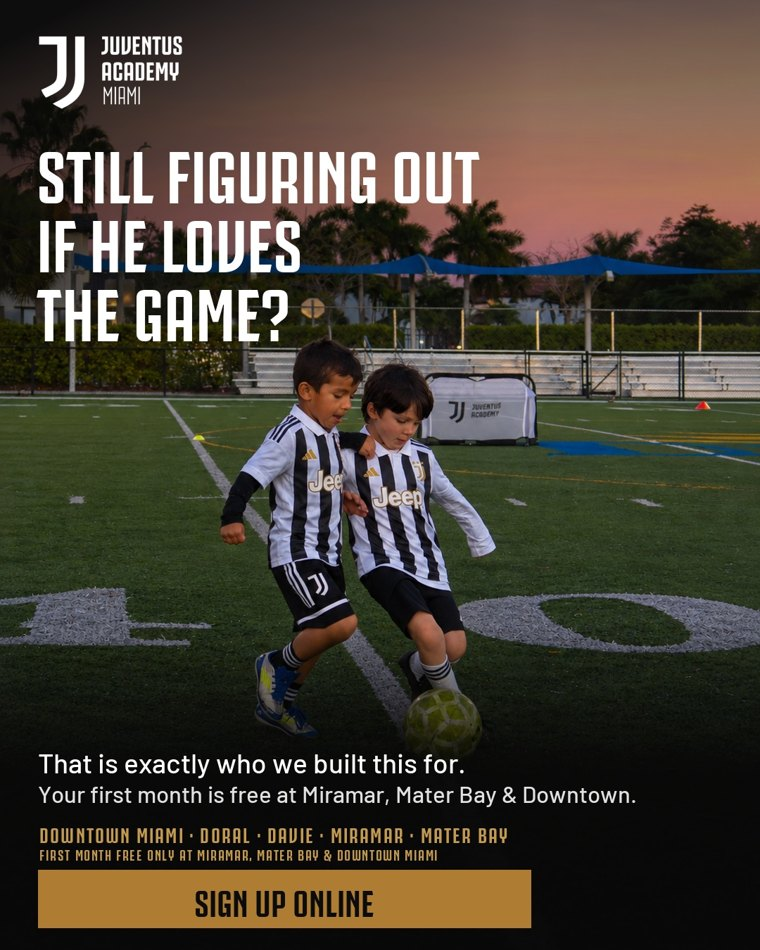
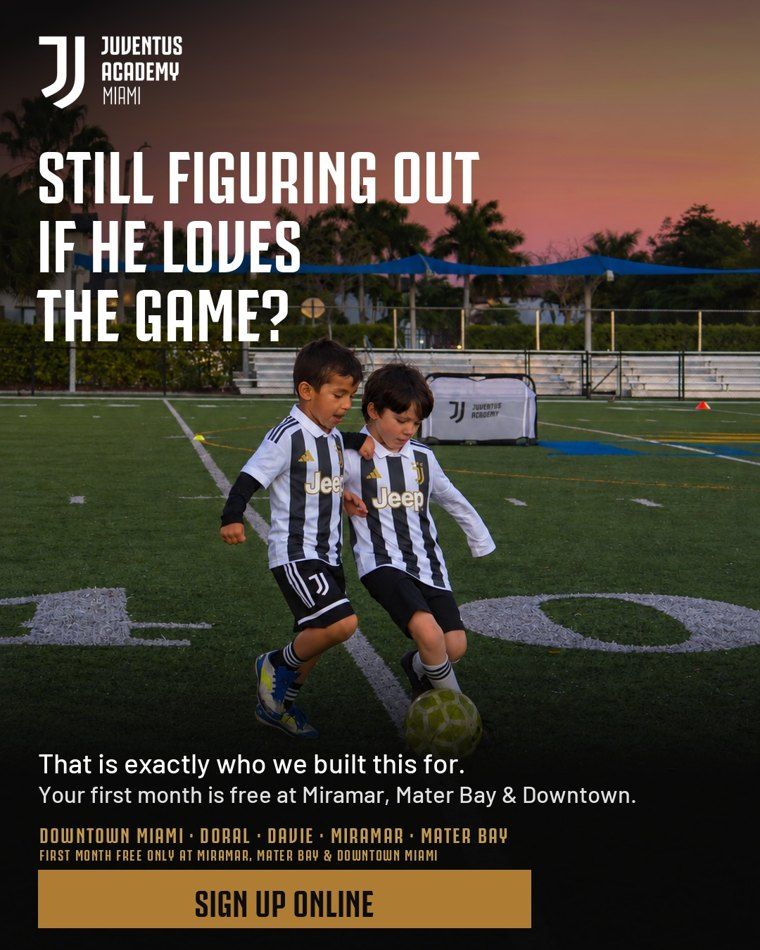
AD3 (sin y con mes gratis): camiseta 2026-27 corregida

diff --git a/index.html b/index.html
@@ -149,7 +149,7 @@ body.lb-abierto{overflow:hidden}</style></head><body><div class="wrap">
   <article class="ad pend" data-id="downtown_AD5">
   <header><span class="num">1</span><h3>AD5 · &quot;First month free&quot; (niño en acción, skyline)</h3><span class="estado" data-estado>Por aprobar</span></header>
   <div class="cuerpo">
-    <div class="media"><p class="donde">Pieza · 1080 × 1350</p><img class="zoom" src="assets/AD5.jpg?v=3" data-full="assets/AD5_1080.jpg?v=3" alt="AD5 · &quot;First month free&quot; (niño en acción, skyline)" loading="lazy" title="Clic para ampliar"><a class="dl" href="assets/AD5_1080.jpg?v=3" target="_blank" rel="noopener">Ver la pieza a tamaño real</a>
+    <div class="media"><p class="donde">Pieza · 1080 × 1350</p><img class="zoom" src="assets/AD5.jpg?v=4" data-full="assets/AD5_1080.jpg?v=4" alt="AD5 · &quot;First month free&quot; (niño en acción, skyline)" loading="lazy" title="Clic para ampliar"><a class="dl" href="assets/AD5_1080.jpg?v=4" target="_blank" rel="noopener">Ver la pieza a tamaño real</a>
       <p class="nota-pieza">Es el AD5 de la campaña actual (USD 3,42 por conversación, 86 conversaciones al 27-10). Cambios: el botón de la pieza pasó de &quot;Message us on WhatsApp&quot; a &quot;Sign up online&quot; y el niño viste ahora la camiseta 2026-27 (Jeep, escudo y adidas como la oficial). Mantiene las 5 sedes y la aclaración del mes gratis.</p></div>
     <div class="copy">
       <div class="lbl">Texto principal · inglés <span class="hint">· se puede editar</span></div>
@@ -173,7 +173,7 @@ body.lb-abierto{overflow:hidden}</style></head><body><div class="wrap">
 </article><article class="ad pend" data-id="downtown_AD4">
   <header><span class="num">2</span><h3>AD4 · &quot;Your first month at Juventus is free&quot; (trofeo)</h3><span class="estado" data-estado>Por aprobar</span></header>
   <div class="cuerpo">
-    <div class="media"><p class="donde">Pieza · 1080 × 1350</p><img class="zoom" src="assets/AD4.jpg?v=3" data-full="assets/AD4_1080.jpg?v=3" alt="AD4 · &quot;Your first month at Juventus is free&quot; (trofeo)" loading="lazy" title="Clic para ampliar"><a class="dl" href="assets/AD4_1080.jpg?v=3" target="_blank" rel="noopener">Ver la pieza a tamaño real</a>
+    <div class="media"><p class="donde">Pieza · 1080 × 1350</p><img class="zoom" src="assets/AD4.jpg?v=4" data-full="assets/AD4_1080.jpg?v=4" alt="AD4 · &quot;Your first month at Juventus is free&quot; (trofeo)" loading="lazy" title="Clic para ampliar"><a class="dl" href="assets/AD4_1080.jpg?v=4" target="_blank" rel="noopener">Ver la pieza a tamaño real</a>
       <p class="nota-pieza">Es el AD4 de la campaña actual (77 conversaciones a USD 4,83). Cambio: los niños visten ahora la camiseta 2026-27 (antes, camisetas de temporadas anteriores con parche de bandera); el texto y el botón &quot;Claim your free month&quot; no cambian.</p></div>
     <div class="copy">
       <div class="lbl">Texto principal · inglés <span class="hint">· se puede editar</span></div>
@@ -197,8 +197,8 @@ body.lb-abierto{overflow:hidden}</style></head><body><div class="wrap">
 </article><article class="ad pend" data-id="downtown_AD3G">
   <header><span class="num">3</span><h3>AD3 · &quot;Still figuring out…&quot; (nuevo, con mes gratis)</h3><span class="estado" data-estado>Por aprobar</span></header>
   <div class="cuerpo">
-    <div class="media"><p class="donde">Pieza · 1080 × 1350</p><img class="zoom" src="assets/AD3G.jpg?v=3" data-full="assets/AD3G_1080.jpg?v=3" alt="AD3 · &quot;Still figuring out…&quot; (nuevo, con mes gratis)" loading="lazy" title="Clic para ampliar"><a class="dl" href="assets/AD3G_1080.jpg?v=3" target="_blank" rel="noopener">Ver la pieza a tamaño real</a>
-      <p class="nota-pieza">La misma pieza nueva con la línea del primer mes gratis y la aclaración de que solo aplica en Miramar, Mater Bay y Downtown Miami.</p></div>
+    <div class="media"><p class="donde">Pieza · 1080 × 1350</p><img class="zoom" src="assets/AD3G.jpg?v=4" data-full="assets/AD3G_1080.jpg?v=4" alt="AD3 · &quot;Still figuring out…&quot; (nuevo, con mes gratis)" loading="lazy" title="Clic para ampliar"><a class="dl" href="assets/AD3G_1080.jpg?v=4" target="_blank" rel="noopener">Ver la pieza a tamaño real</a>
+      <p class="nota-pieza">Camiseta 2026-27 corregida (30-10). La misma pieza nueva con la línea del primer mes gratis y la aclaración de que solo aplica en Miramar, Mater Bay y Downtown Miami.</p></div>
     <div class="copy">
       <div class="lbl">Texto principal · inglés <span class="hint">· se puede editar</span></div>
       <div class="tp ed" contenteditable="true" spellcheck="true" data-campo="texto">Still figuring out if he loves the game? ⚽ That&#x27;s exactly who we built Juventus Pre-Academy for.<br><br>No pressure, no tryouts: boys and girls learn the game at their own pace with certified coaches and the Juventus methodology. Your first month is free at Miramar, Mater Bay and Downtown Miami.<br><br>See the schedule and sign up online at the link 👇</div>
@@ -221,7 +221,7 @@ body.lb-abierto{overflow:hidden}</style></head><body><div class="wrap">
 </article><article class="ad pend" data-id="downtown_AD1">
   <header><span class="num">4</span><h3>AD1 · &quot;More soccer. More smiles.&quot; (5 sedes)</h3><span class="estado" data-estado>Por aprobar</span></header>
   <div class="cuerpo">
-    <div class="media"><p class="donde">Pieza · 1080 × 1350</p><img class="zoom" src="assets/AD1.jpg?v=3" data-full="assets/AD1_1080.jpg?v=3" alt="AD1 · &quot;More soccer. More smiles.&quot; (5 sedes)" loading="lazy" title="Clic para ampliar"><a class="dl" href="assets/AD1_1080.jpg?v=3" target="_blank" rel="noopener">Ver la pieza a tamaño real</a>
+    <div class="media"><p class="donde">Pieza · 1080 × 1350</p><img class="zoom" src="assets/AD1.jpg?v=4" data-full="assets/AD1_1080.jpg?v=4" alt="AD1 · &quot;More soccer. More smiles.&quot; (5 sedes)" loading="lazy" title="Clic para ampliar"><a class="dl" href="assets/AD1_1080.jpg?v=4" target="_blank" rel="noopener">Ver la pieza a tamaño real</a>
       <p class="nota-pieza">Es el AD1 de la campaña actual (USD 3,33 por conversación, 24 conversaciones). Cambios: el botón de la pieza pasó de &quot;Message us on WhatsApp&quot; a &quot;Sign up online&quot; y los niños visten ahora la camiseta 2026-27 (el coach conserva la suya). Lista las 5 sedes y no menciona el mes gratis.</p></div>
     <div class="copy">
       <div class="lbl">Texto principal · inglés <span class="hint">· se puede editar</span></div>
@@ -250,8 +250,8 @@ body.lb-abierto{overflow:hidden}</style></head><body><div class="wrap">
   <article class="ad pend" data-id="doral_AD3">
   <header><span class="num">1</span><h3>AD3 · &quot;Still figuring out if he loves the game?&quot; (nuevo, sin mes gratis)</h3><span class="estado" data-estado>Por aprobar</span></header>
   <div class="cuerpo">
-    <div class="media"><p class="donde">Pieza · 1080 × 1350</p><img class="zoom" src="assets/AD3.jpg?v=3" data-full="assets/AD3_1080.jpg?v=3" alt="AD3 · &quot;Still figuring out if he loves the game?&quot; (nuevo, sin mes gratis)" loading="lazy" title="Clic para ampliar"><a class="dl" href="assets/AD3_1080.jpg?v=3" target="_blank" rel="noopener">Ver la pieza a tamaño real</a>
-      <p class="nota-pieza">Rediseño del AD3 de la campaña actual (el que más conversaciones trajo: 94 a USD 3,87), sobre una foto real de una práctica de Pre-Academy con la camiseta 2026-27 (antes: niños con petos). Mismo gancho, sin la oferta del mes gratis, para que Doral y Davie tengan un segundo anuncio.</p></div>
+    <div class="media"><p class="donde">Pieza · 1080 × 1350</p><img class="zoom" src="assets/AD3.jpg?v=4" data-full="assets/AD3_1080.jpg?v=4" alt="AD3 · &quot;Still figuring out if he loves the game?&quot; (nuevo, sin mes gratis)" loading="lazy" title="Clic para ampliar"><a class="dl" href="assets/AD3_1080.jpg?v=4" target="_blank" rel="noopener">Ver la pieza a tamaño real</a>
+      <p class="nota-pieza">Camiseta 2026-27 corregida (30-10): rayas anchas, cuello polo, adidas dorado, escudo con 3 estrellas y Jeep blanco con borde dorado. Rediseño del AD3 de la campaña actual (el que más conversaciones trajo: 94 a USD 3,87), sobre una foto real de una práctica de Pre-Academy con la camiseta 2026-27 (antes: niños con petos). Mismo gancho, sin la oferta del mes gratis, para que Doral y Davie tengan un segundo anuncio.</p></div>
     <div class="copy">
       <div class="lbl">Texto principal · inglés <span class="hint">· se puede editar</span></div>
       <div class="tp ed" contenteditable="true" spellcheck="true" data-campo="texto">Still figuring out if he loves the game? ⚽ That&#x27;s exactly who we built Juventus Pre-Academy for.<br><br>No pressure, no tryouts: boys and girls ages 3 to 16 learn the game at their own pace with certified coaches and the Juventus methodology, in Downtown Miami, Doral, Davie, Miramar and Mater Bay.<br><br>Choose your location and sign up online at the link 👇</div>
@@ -274,7 +274,7 @@ body.lb-abierto{overflow:hidden}</style></head><body><div class="wrap">
 </article><article class="ad pend" data-id="doral_AD1">
   <header><span class="num">2</span><h3>AD1 · &quot;More soccer. More smiles.&quot; (5 sedes)</h3><span class="estado" data-estado>Por aprobar</span></header>
   <div class="cuerpo">
-    <div class="media"><p class="donde">Pieza · 1080 × 1350</p><img class="zoom" src="assets/AD1.jpg?v=3" data-full="assets/AD1_1080.jpg?v=3" alt="AD1 · &quot;More soccer. More smiles.&quot; (5 sedes)" loading="lazy" title="Clic para ampliar"><a class="dl" href="assets/AD1_1080.jpg?v=3" target="_blank" rel="noopener">Ver la pieza a tamaño real</a>
+    <div class="media"><p class="donde">Pieza · 1080 × 1350</p><img class="zoom" src="assets/AD1.jpg?v=4" data-full="assets/AD1_1080.jpg?v=4" alt="AD1 · &quot;More soccer. More smiles.&quot; (5 sedes)" loading="lazy" title="Clic para ampliar"><a class="dl" href="assets/AD1_1080.jpg?v=4" target="_blank" rel="noopener">Ver la pieza a tamaño real</a>
       <p class="nota-pieza">Es el AD1 de la campaña actual (USD 3,33 por conversación, 24 conversaciones). Cambios: el botón de la pieza pasó de &quot;Message us on WhatsApp&quot; a &quot;Sign up online&quot; y los niños visten ahora la camiseta 2026-27 (el coach conserva la suya). Lista las 5 sedes y no menciona el mes gratis.</p></div>
     <div class="copy">
       <div class="lbl">Texto principal · inglés <span class="hint">· se puede editar</span></div>
@@ -303,8 +303,8 @@ body.lb-abierto{overflow:hidden}</style></head><body><div class="wrap">
   <article class="ad pend" data-id="davie_AD3">
   <header><span class="num">1</span><h3>AD3 · &quot;Still figuring out if he loves the game?&quot; (nuevo, sin mes gratis)</h3><span class="estado" data-estado>Por aprobar</span></header>
   <div class="cuerpo">
-    <div class="media"><p class="donde">Pieza · 1080 × 1350</p><img class="zoom" src="assets/AD3.jpg?v=3" data-full="assets/AD3_1080.jpg?v=3" alt="AD3 · &quot;Still figuring out if he loves the game?&quot; (nuevo, sin mes gratis)" loading="lazy" title="Clic para ampliar"><a class="dl" href="assets/AD3_1080.jpg?v=3" target="_blank" rel="noopener">Ver la pieza a tamaño real</a>
-      <p class="nota-pieza">Rediseño del AD3 de la campaña actual (el que más conversaciones trajo: 94 a USD 3,87), sobre una foto real de una práctica de Pre-Academy con la camiseta 2026-27 (antes: niños con petos). Mismo gancho, sin la oferta del mes gratis, para que Doral y Davie tengan un segundo anuncio.</p></div>
+    <div class="media"><p class="donde">Pieza · 1080 × 1350</p><img class="zoom" src="assets/AD3.jpg?v=4" data-full="assets/AD3_1080.jpg?v=4" alt="AD3 · &quot;Still figuring out if he loves the game?&quot; (nuevo, sin mes gratis)" loading="lazy" title="Clic para ampliar"><a class="dl" href="assets/AD3_1080.jpg?v=4" target="_blank" rel="noopener">Ver la pieza a tamaño real</a>
+      <p class="nota-pieza">Camiseta 2026-27 corregida (30-10): rayas anchas, cuello polo, adidas dorado, escudo con 3 estrellas y Jeep blanco con borde dorado. Rediseño del AD3 de la campaña actual (el que más conversaciones trajo: 94 a USD 3,87), sobre una foto real de una práctica de Pre-Academy con la camiseta 2026-27 (antes: niños con petos). Mismo gancho, sin la oferta del mes gratis, para que Doral y Davie tengan un segundo anuncio.</p></div>
     <div class="copy">
       <div class="lbl">Texto principal · inglés <span class="hint">· se puede editar</span></div>
       <div class="tp ed" contenteditable="true" spellcheck="true" data-campo="texto">Still figuring out if he loves the game? ⚽ That&#x27;s exactly who we built Juventus Pre-Academy for.<br><br>No pressure, no tryouts: boys and girls ages 3 to 16 learn the game at their own pace with certified coaches and the Juventus methodology, in Downtown Miami, Doral, Davie, Miramar and Mater Bay.<br><br>Choose your location and sign up online at the link 👇</div>
@@ -327,7 +327,7 @@ body.lb-abierto{overflow:hidden}</style></head><body><div class="wrap">
 </article><article class="ad pend" data-id="davie_AD1">
   <header><span class="num">2</span><h3>AD1 · &quot;More soccer. More smiles.&quot; (5 sedes)</h3><span class="estado" data-estado>Por aprobar</span></header>
   <div class="cuerpo">
-    <div class="media"><p class="donde">Pieza · 1080 × 1350</p><img class="zoom" src="assets/AD1.jpg?v=3" data-full="assets/AD1_1080.jpg?v=3" alt="AD1 · &quot;More soccer. More smiles.&quot; (5 sedes)" loading="lazy" title="Clic para ampliar"><a class="dl" href="assets/AD1_1080.jpg?v=3" target="_blank" rel="noopener">Ver la pieza a tamaño real</a>
+    <div class="media"><p class="donde">Pieza · 1080 × 1350</p><img class="zoom" src="assets/AD1.jpg?v=4" data-full="assets/AD1_1080.jpg?v=4" alt="AD1 · &quot;More soccer. More smiles.&quot; (5 sedes)" loading="lazy" title="Clic para ampliar"><a class="dl" href="assets/AD1_1080.jpg?v=4" target="_blank" rel="noopener">Ver la pieza a tamaño real</a>
       <p class="nota-pieza">Es el AD1 de la campaña actual (USD 3,33 por conversación, 24 conversaciones). Cambios: el botón de la pieza pasó de &quot;Message us on WhatsApp&quot; a &quot;Sign up online&quot; y los niños visten ahora la camiseta 2026-27 (el coach conserva la suya). Lista las 5 sedes y no menciona el mes gratis.</p></div>
     <div class="copy">
       <div class="lbl">Texto principal · inglés <span class="hint">· se puede editar</span></div>
@@ -356,7 +356,7 @@ body.lb-abierto{overflow:hidden}</style></head><body><div class="wrap">
   <article class="ad pend" data-id="miramar_AD5">
   <header><span class="num">1</span><h3>AD5 · &quot;First month free&quot; (niño en acción, skyline)</h3><span class="estado" data-estado>Por aprobar</span></header>
   <div class="cuerpo">
-    <div class="media"><p class="donde">Pieza · 1080 × 1350</p><img class="zoom" src="assets/AD5.jpg?v=3" data-full="assets/AD5_1080.jpg?v=3" alt="AD5 · &quot;First month free&quot; (niño en acción, skyline)" loading="lazy" title="Clic para ampliar"><a class="dl" href="assets/AD5_1080.jpg?v=3" target="_blank" rel="noopener">Ver la pieza a tamaño real</a>
+    <div class="media"><p class="donde">Pieza · 1080 × 1350</p><img class="zoom" src="assets/AD5.jpg?v=4" data-full="assets/AD5_1080.jpg?v=4" alt="AD5 · &quot;First month free&quot; (niño en acción, skyline)" loading="lazy" title="Clic para ampliar"><a class="dl" href="assets/AD5_1080.jpg?v=4" target="_blank" rel="noopener">Ver la pieza a tamaño real</a>
       <p class="nota-pieza">Es el AD5 de la campaña actual (USD 3,42 por conversación, 86 conversaciones al 27-10). Cambios: el botón de la pieza pasó de &quot;Message us on WhatsApp&quot; a &quot;Sign up online&quot; y el niño viste ahora la camiseta 2026-27 (Jeep, escudo y adidas como la oficial). Mantiene las 5 sedes y la aclaración del mes gratis.</p></div>
     <div class="copy">
       <div class="lbl">Texto principal · inglés <span class="hint">· se puede editar</span></div>
@@ -380,7 +380,7 @@ body.lb-abierto{overflow:hidden}</style></head><body><div class="wrap">
 </article><article class="ad pend" data-id="miramar_AD4">
   <header><span class="num">2</span><h3>AD4 · &quot;Your first month at Juventus is free&quot; (trofeo)</h3><span class="estado" data-estado>Por aprobar</span></header>
   <div class="cuerpo">
-    <div class="media"><p class="donde">Pieza · 1080 × 1350</p><img class="zoom" src="assets/AD4.jpg?v=3" data-full="assets/AD4_1080.jpg?v=3" alt="AD4 · &quot;Your first month at Juventus is free&quot; (trofeo)" loading="lazy" title="Clic para ampliar"><a class="dl" href="assets/AD4_1080.jpg?v=3" target="_blank" rel="noopener">Ver la pieza a tamaño real</a>
+    <div class="media"><p class="donde">Pieza · 1080 × 1350</p><img class="zoom" src="assets/AD4.jpg?v=4" data-full="assets/AD4_1080.jpg?v=4" alt="AD4 · &quot;Your first month at Juventus is free&quot; (trofeo)" loading="lazy" title="Clic para ampliar"><a class="dl" href="assets/AD4_1080.jpg?v=4" target="_blank" rel="noopener">Ver la pieza a tamaño real</a>
       <p class="nota-pieza">Es el AD4 de la campaña actual (77 conversaciones a USD 4,83). Cambio: los niños visten ahora la camiseta 2026-27 (antes, camisetas de temporadas anteriores con parche de bandera); el texto y el botón &quot;Claim your free month&quot; no cambian.</p></div>
     <div class="copy">
       <div class="lbl">Texto principal · inglés <span class="hint">· se puede editar</span></div>
@@ -404,8 +404,8 @@ body.lb-abierto{overflow:hidden}</style></head><body><div class="wrap">
 </article><article class="ad pend" data-id="miramar_AD3G">
   <header><span class="num">3</span><h3>AD3 · &quot;Still figuring out…&quot; (nuevo, con mes gratis)</h3><span class="estado" data-estado>Por aprobar</span></header>
   <div class="cuerpo">
-    <div class="media"><p class="donde">Pieza · 1080 × 1350</p><img class="zoom" src="assets/AD3G.jpg?v=3" data-full="assets/AD3G_1080.jpg?v=3" alt="AD3 · &quot;Still figuring out…&quot; (nuevo, con mes gratis)" loading="lazy" title="Clic para ampliar"><a class="dl" href="assets/AD3G_1080.jpg?v=3" target="_blank" rel="noopener">Ver la pieza a tamaño real</a>
-      <p class="nota-pieza">La misma pieza nueva con la línea del primer mes gratis y la aclaración de que solo aplica en Miramar, Mater Bay y Downtown Miami.</p></div>
+    <div class="media"><p class="donde">Pieza · 1080 × 1350</p><img class="zoom" src="assets/AD3G.jpg?v=4" data-full="assets/AD3G_1080.jpg?v=4" alt="AD3 · &quot;Still figuring out…&quot; (nuevo, con mes gratis)" loading="lazy" title="Clic para ampliar"><a class="dl" href="assets/AD3G_1080.jpg?v=4" target="_blank" rel="noopener">Ver la pieza a tamaño real</a>
+      <p class="nota-pieza">Camiseta 2026-27 corregida (30-10). La misma pieza nueva con la línea del primer mes gratis y la aclaración de que solo aplica en Miramar, Mater Bay y Downtown Miami.</p></div>
     <div class="copy">
       <div class="lbl">Texto principal · inglés <span class="hint">· se puede editar</span></div>
       <div class="tp ed" contenteditable="true" spellcheck="true" data-campo="texto">Still figuring out if he loves the game? ⚽ That&#x27;s exactly who we built Juventus Pre-Academy for.<br><br>No pressure, no tryouts: boys and girls learn the game at their own pace with certified coaches and the Juventus methodology. Your first month is free at Miramar, Mater Bay and Downtown Miami.<br><br>See the schedule and sign up online at the link 👇</div>
@@ -428,7 +428,7 @@ body.lb-abierto{overflow:hidden}</style></head><body><div class="wrap">
 </article><article class="ad pend" data-id="miramar_AD1">
   <header><span class="num">4</span><h3>AD1 · &quot;More soccer. More smiles.&quot; (5 sedes)</h3><span class="estado" data-estado>Por aprobar</span></header>
   <div class="cuerpo">
-    <div class="media"><p class="donde">Pieza · 1080 × 1350</p><img class="zoom" src="assets/AD1.jpg?v=3" data-full="assets/AD1_1080.jpg?v=3" alt="AD1 · &quot;More soccer. More smiles.&quot; (5 sedes)" loading="lazy" title="Clic para ampliar"><a class="dl" href="assets/AD1_1080.jpg?v=3" target="_blank" rel="noopener">Ver la pieza a tamaño real</a>
+    <div class="media"><p class="donde">Pieza · 1080 × 1350</p><img class="zoom" src="assets/AD1.jpg?v=4" data-full="assets/AD1_1080.jpg?v=4" alt="AD1 · &quot;More soccer. More smiles.&quot; (5 sedes)" loading="lazy" title="Clic para ampliar"><a class="dl" href="assets/AD1_1080.jpg?v=4" target="_blank" rel="noopener">Ver la pieza a tamaño real</a>
       <p class="nota-pieza">Es el AD1 de la campaña actual (USD 3,33 por conversación, 24 conversaciones). Cambios: el botón de la pieza pasó de &quot;Message us on WhatsApp&quot; a &quot;Sign up online&quot; y los niños visten ahora la camiseta 2026-27 (el coach conserva la suya). Lista las 5 sedes y no menciona el mes gratis.</p></div>
     <div class="copy">
       <div class="lbl">Texto principal · inglés <span class="hint">· se puede editar</span></div>
@@ -457,7 +457,7 @@ body.lb-abierto{overflow:hidden}</style></head><body><div class="wrap">
   <article class="ad pend" data-id="materbay_AD5">
   <header><span class="num">1</span><h3>AD5 · &quot;First month free&quot; (niño en acción, skyline)</h3><span class="estado" data-estado>Por aprobar</span></header>
   <div class="cuerpo">
-    <div class="media"><p class="donde">Pieza · 1080 × 1350</p><img class="zoom" src="assets/AD5.jpg?v=3" data-full="assets/AD5_1080.jpg?v=3" alt="AD5 · &quot;First month free&quot; (niño en acción, skyline)" loading="lazy" title="Clic para ampliar"><a class="dl" href="assets/AD5_1080.jpg?v=3" target="_blank" rel="noopener">Ver la pieza a tamaño real</a>
+    <div class="media"><p class="donde">Pieza · 1080 × 1350</p><img class="zoom" src="assets/AD5.jpg?v=4" data-full="assets/AD5_1080.jpg?v=4" alt="AD5 · &quot;First month free&quot; (niño en acción, skyline)" loading="lazy" title="Clic para ampliar"><a class="dl" href="assets/AD5_1080.jpg?v=4" target="_blank" rel="noopener">Ver la pieza a tamaño real</a>
       <p class="nota-pieza">Es el AD5 de la campaña actual (USD 3,42 por conversación, 86 conversaciones al 27-10). Cambios: el botón de la pieza pasó de &quot;Message us on WhatsApp&quot; a &quot;Sign up online&quot; y el niño viste ahora la camiseta 2026-27 (Jeep, escudo y adidas como la oficial). Mantiene las 5 sedes y la aclaración del mes gratis.</p></div>
     <div class="copy">
       <div class="lbl">Texto principal · inglés <span class="hint">· se puede editar</span></div>
@@ -481,7 +481,7 @@ body.lb-abierto{overflow:hidden}</style></head><body><div class="wrap">
 </article><article class="ad pend" data-id="materbay_AD4">
   <header><span class="num">2</span><h3>AD4 · &quot;Your first month at Juventus is free&quot; (trofeo)</h3><span class="estado" data-estado>Por aprobar</span></header>
   <div class="cuerpo">
-    <div class="media"><p class="donde">Pieza · 1080 × 1350</p><img class="zoom" src="assets/AD4.jpg?v=3" data-full="assets/AD4_1080.jpg?v=3" alt="AD4 · &quot;Your first month at Juventus is free&quot; (trofeo)" loading="lazy" title="Clic para ampliar"><a class="dl" href="assets/AD4_1080.jpg?v=3" target="_blank" rel="noopener">Ver la pieza a tamaño real</a>
+    <div class="media"><p class="donde">Pieza · 1080 × 1350</p><img class="zoom" src="assets/AD4.jpg?v=4" data-full="assets/AD4_1080.jpg?v=4" alt="AD4 · &quot;Your first month at Juventus is free&quot; (trofeo)" loading="lazy" title="Clic para ampliar"><a class="dl" href="assets/AD4_1080.jpg?v=4" target="_blank" rel="noopener">Ver la pieza a tamaño real</a>
       <p class="nota-pieza">Es el AD4 de la campaña actual (77 conversaciones a USD 4,83). Cambio: los niños visten ahora la camiseta 2026-27 (antes, camisetas de temporadas anteriores con parche de bandera); el texto y el botón &quot;Claim your free month&quot; no cambian.</p></div>
     <div class="copy">
       <div class="lbl">Texto principal · inglés <span class="hint">· se puede editar</span></div>
@@ -505,8 +505,8 @@ body.lb-abierto{overflow:hidden}</style></head><body><div class="wrap">
 </article><article class="ad pend" data-id="materbay_AD3G">
   <header><span class="num">3</span><h3>AD3 · &quot;Still figuring out…&quot; (nuevo, con mes gratis)</h3><span class="estado" data-estado>Por aprobar</span></header>
   <div class="cuerpo">
-    <div class="media"><p class="donde">Pieza · 1080 × 1350</p><img class="zoom" src="assets/AD3G.jpg?v=3" data-full="assets/AD3G_1080.jpg?v=3" alt="AD3 · &quot;Still figuring out…&quot; (nuevo, con mes gratis)" loading="lazy" title="Clic para ampliar"><a class="dl" href="assets/AD3G_1080.jpg?v=3" target="_blank" rel="noopener">Ver la pieza a tamaño real</a>
-      <p class="nota-pieza">La misma pieza nueva con la línea del primer mes gratis y la aclaración de que solo aplica en Miramar, Mater Bay y Downtown Miami.</p></div>
+    <div class="media"><p class="donde">Pieza · 1080 × 1350</p><img class="zoom" src="assets/AD3G.jpg?v=4" data-full="assets/AD3G_1080.jpg?v=4" alt="AD3 · &quot;Still figuring out…&quot; (nuevo, con mes gratis)" loading="lazy" title="Clic para ampliar"><a class="dl" href="assets/AD3G_1080.jpg?v=4" target="_blank" rel="noopener">Ver la pieza a tamaño real</a>
+      <p class="nota-pieza">Camiseta 2026-27 corregida (30-10). La misma pieza nueva con la línea del primer mes gratis y la aclaración de que solo aplica en Miramar, Mater Bay y Downtown Miami.</p></div>
     <div class="copy">
       <div class="lbl">Texto principal · inglés <span class="hint">· se puede editar</span></div>
       <div class="tp ed" contenteditable="true" spellcheck="true" data-campo="texto">Still figuring out if he loves the game? ⚽ That&#x27;s exactly who we built Juventus Pre-Academy for.<br><br>No pressure, no tryouts: boys and girls learn the game at their own pace with certified coaches and the Juventus methodology. Your first month is free at Miramar, Mater Bay and Downtown Miami.<br><br>See the schedule and sign up online at the link 👇</div>
@@ -529,7 +529,7 @@ body.lb-abierto{overflow:hidden}</style></head><body><div class="wrap">
 </article><article class="ad pend" data-id="materbay_AD1">
   <header><span class="num">4</span><h3>AD1 · &quot;More soccer. More smiles.&quot; (5 sedes)</h3><span class="estado" data-estado>Por aprobar</span></header>
   <div class="cuerpo">
-    <div class="media"><p class="donde">Pieza · 1080 × 1350</p><img class="zoom" src="assets/AD1.jpg?v=3" data-full="assets/AD1_1080.jpg?v=3" alt="AD1 · &quot;More soccer. More smiles.&quot; (5 sedes)" loading="lazy" title="Clic para ampliar"><a class="dl" href="assets/AD1_1080.jpg?v=3" target="_blank" rel="noopener">Ver la pieza a tamaño real</a>
+    <div class="media"><p class="donde">Pieza · 1080 × 1350</p><img class="zoom" src="assets/AD1.jpg?v=4" data-full="assets/AD1_1080.jpg?v=4" alt="AD1 · &quot;More soccer. More smiles.&quot; (5 sedes)" loading="lazy" title="Clic para ampliar"><a class="dl" href="assets/AD1_1080.jpg?v=4" target="_blank" rel="noopener">Ver la pieza a tamaño real</a>
       <p class="nota-pieza">Es el AD1 de la campaña actual (USD 3,33 por conversación, 24 conversaciones). Cambios: el botón de la pieza pasó de &quot;Message us on WhatsApp&quot; a &quot;Sign up online&quot; y los niños visten ahora la camiseta 2026-27 (el coach conserva la suya). Lista las 5 sedes y no menciona el mes gratis.</p></div>
     <div class="copy">
       <div class="lbl">Texto principal · inglés <span class="hint">· se puede editar</span></div>
